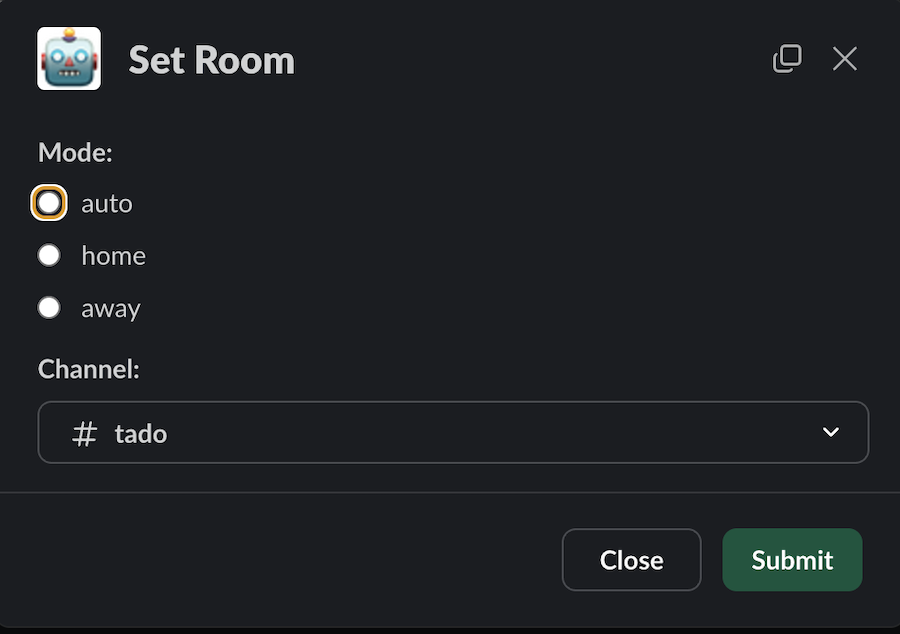
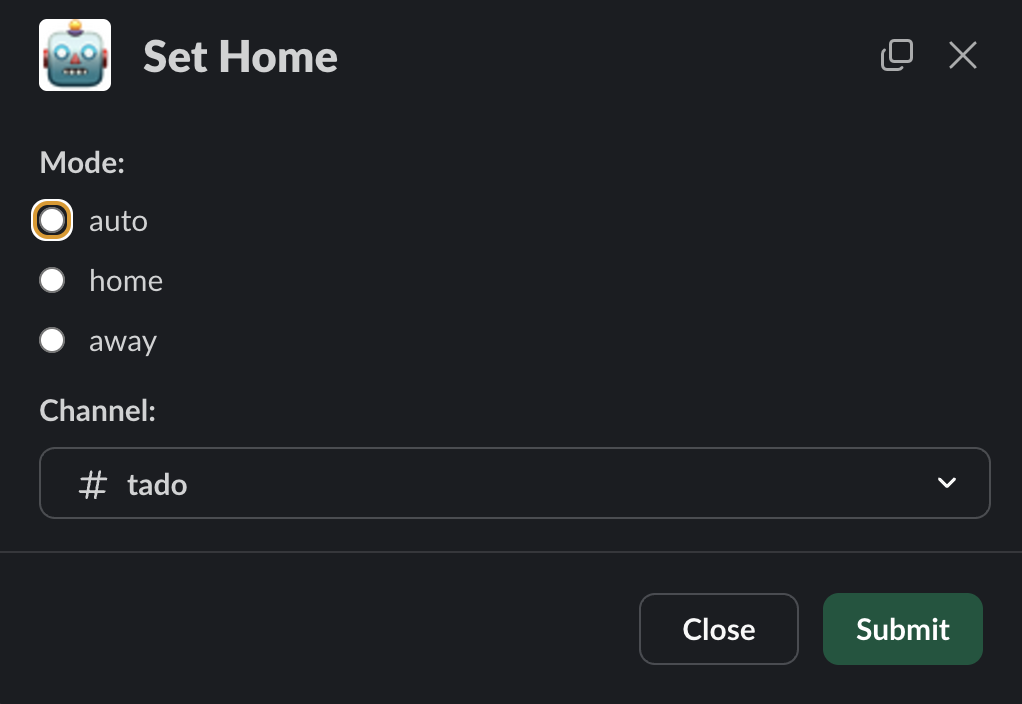
feat: shortcuts w/ dialogs for set room/home commands

diff --git a/internal/bot/shortcuts.go b/internal/bot/shortcuts.go
@@ -171,8 +171,7 @@ func (s *setRoomShortcut) makeView(mode string, u poller.Update) slack.ModalView
 		temperatureBlock := slack.NewInputBlock("temperature", temperatureLabel, nil, temperatureOptions)
 		blocks.BlockSet = append(blocks.BlockSet, temperatureBlock)
 
-		// duration
-		// TODO: duration -> expiration
+		// expiration
 		durationLabel := slack.NewTextBlockObject(slack.PlainTextType, "Expiration:", false, false)
 		durationOptions := slack.NewTimePickerBlockElement("expiration")
 		durationBlock := slack.NewInputBlock("expiration", durationLabel, nil, durationOptions).WithOptional(true)
@@ -276,7 +275,7 @@ func (s *setHomeShortcut) makeView() slack.ModalViewRequest {
 
 	return slack.ModalViewRequest{
 		Type:          slack.VTModal,
-		Title:         slack.NewTextBlockObject(slack.PlainTextType, "Set Room", false, false),
+		Title:         slack.NewTextBlockObject(slack.PlainTextType, "Set Home", false, false),
 		Blocks:        blocks,
 		Close:         slack.NewTextBlockObject(slack.PlainTextType, "Close", false, false),
 		Submit:        slack.NewTextBlockObject(slack.PlainTextType, "Submit", false, false),

diff --git a/README.md b/README.md
@@ -160,13 +160,12 @@ The tado bot implements the following Slash commands:
 * **/users**: show the status of each user (home/away)
 * **/refresh**: get the latest Tadoº data
 
-The `Tado Room` shortcut controls a room's heating:
+The bot includes two interactive shortcuts: `Tado Room` controls a room's heating, `Tado Home` controls the house:
 
-![screenshot](assets/screenshots/tado_room.png)
+| Tado Room                       | Tado Home |
+|---------------------------------|-----------|
+| ![](assets/screenshots/tado_room.png) | ![](assets/screenshots/tado_home.png) |
 
-The `Tado Home` shortcut control's the home:
-
-![screenshot](assets/screenshots/tado_home.png)
 
 To enable the bot, go to You Apps in your workspace and add a Tadoº Bot using the included [manifest.yaml](assets/slack/manifest.yaml).
 Add the App Token and the Bot User OAuth Token in `slack.app-token` and `slack.token` respectively.
